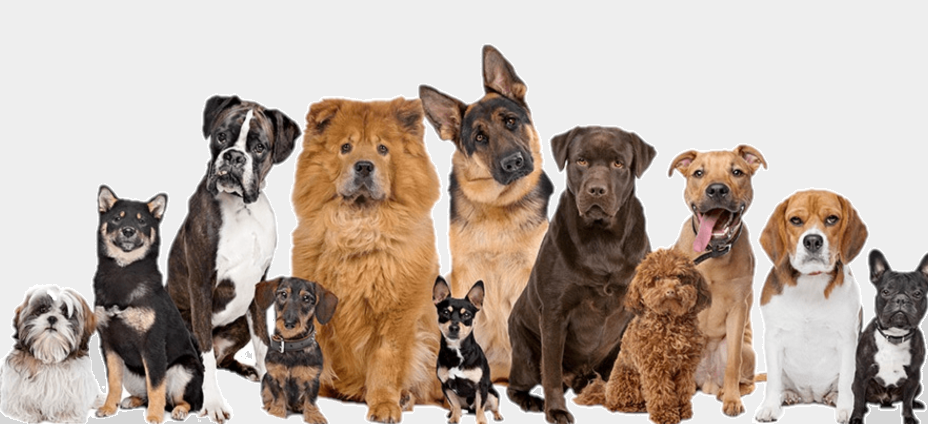
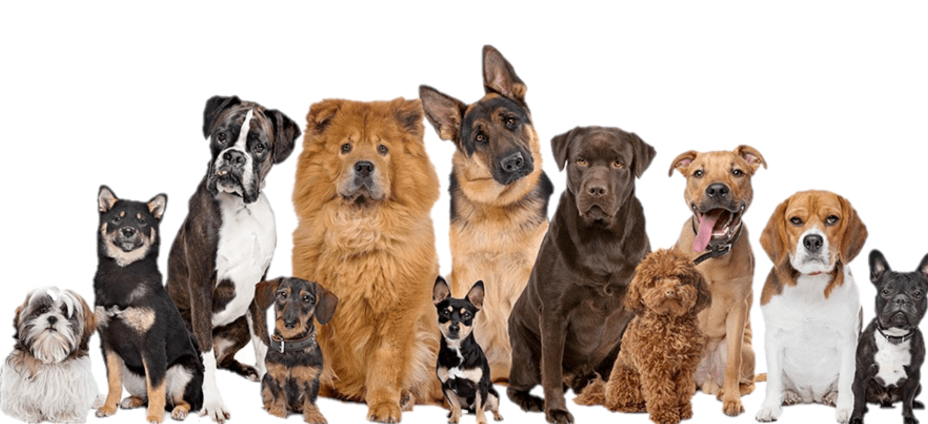
change the original image of the paralax

diff --git a/index.html b/index.html
@@ -63,7 +63,7 @@
                 </div>
             </div>
         </div>
-        <div class="parallax"><img src="images/index/bannerfacebook3.png"></div>
+        <div class="parallax"><img src="images/index/bannerbien.png"></div>
     </div>
     <div class="container">
         <div class="section">
